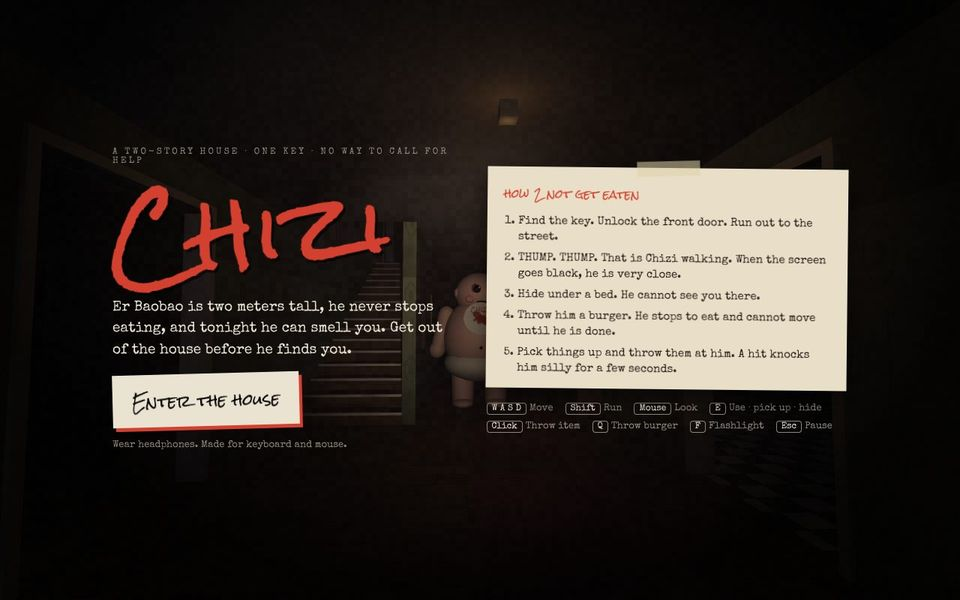
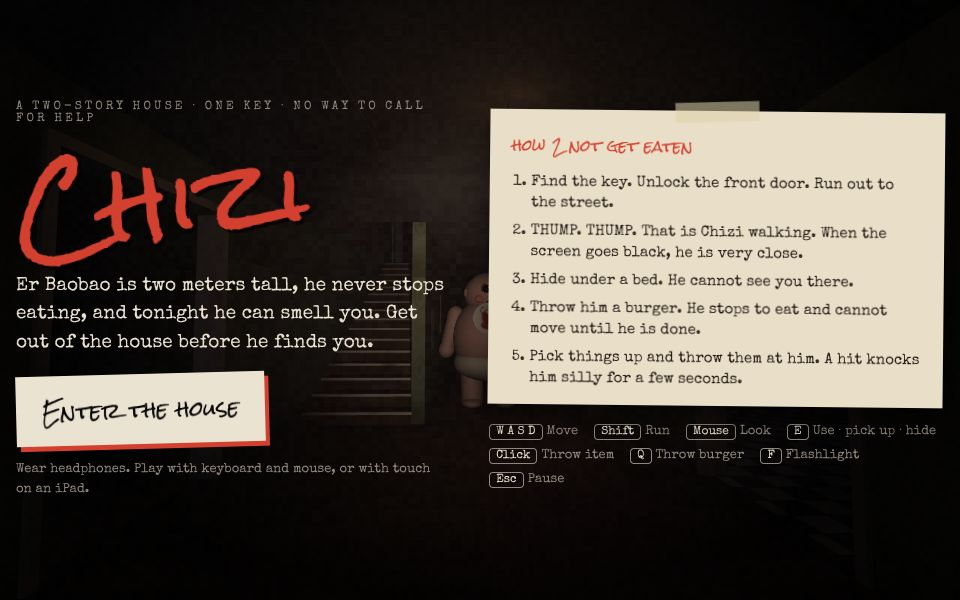
Chizi: iPad touch controls
Floating joystick on the left (push to the edge to run), drag to look on
the right, and USE / THROW / BURGER / LIGHT / PAUSE buttons. Hints and
prompts switch to touch wording, tablets render at a lighter resolution,
iOS audio plays in silent mode, and the game pauses when the tab is hidden.

Claude-Session: https://claude.ai/code/session_0114z52ABEh86bkxrtAexeXQ

diff --git a/kids/mozi/games/chizi.html b/kids/mozi/games/chizi.html
@@ -1,7 +1,8 @@
 <!doctype html>
 <html lang="en">
 <meta charset="utf-8">
-<meta name="viewport" content="width=device-width,initial-scale=1,viewport-fit=cover">
+<meta name="viewport" content="width=device-width,initial-scale=1,maximum-scale=1,viewport-fit=cover">
+<meta name="apple-mobile-web-app-capable" content="yes">
 <title>Chizi</title>
 <link rel="preconnect" href="https://fonts.googleapis.com">
 <link rel="preconnect" href="https://fonts.gstatic.com" crossorigin>
@@ -22,7 +23,7 @@
   color-scheme:dark;
 }
 [hidden]{display:none!important}
-html,body{height:100%;margin:0;background:var(--void);color:var(--bone);overflow:hidden;font-family:var(--font-type);-webkit-user-select:none;user-select:none}
+html,body{height:100%;margin:0;background:var(--void);color:var(--bone);overflow:hidden;font-family:var(--font-type);-webkit-user-select:none;user-select:none;-webkit-touch-callout:none;-webkit-tap-highlight-color:transparent;overscroll-behavior:none}
 #stage{position:fixed;inset:0;background:var(--void)}
 #stage canvas{display:block;width:100%;height:100%}
 
@@ -100,6 +101,38 @@ html,body{height:100%;margin:0;background:var(--void);color:var(--bone);overflow
 #end.lose .logo{color:var(--crayon)}
 #end.win .logo{color:var(--mustard);text-shadow:3px 4px 0 rgba(0,0,0,.6)}
 #pause .logo,#end .logo{font-size:clamp(44px,8vw,84px)}
+
+/* ---------- touch (iPad) ---------- */
+#touch{position:fixed;inset:0;display:none;touch-action:none;-webkit-touch-callout:none;-webkit-user-select:none;user-select:none}
+body.touch.playing #touch{display:block}
+#tZone{position:absolute;inset:0;touch-action:none}
+.joy{position:absolute;left:0;top:0;width:132px;height:132px;margin:-66px 0 0 -66px;border-radius:50%;border:2px solid rgba(235,227,210,.4);background:rgba(235,227,210,.06);pointer-events:none;opacity:0;transition:opacity .12s}
+.joy.on{opacity:1}
+.knob{position:absolute;left:50%;top:50%;width:58px;height:58px;margin:-29px 0 0 -29px;border-radius:50%;background:rgba(235,227,210,.5);box-shadow:0 2px 10px rgba(0,0,0,.5)}
+.joy.run{border-color:var(--crayon)}
+.joy.run .knob{background:var(--crayon)}
+.joy.run::after{content:"RUN";position:absolute;left:50%;bottom:-26px;transform:translateX(-50%);font-size:12px;letter-spacing:.2em;color:var(--crayon)}
+#tRest{position:absolute;left:calc(env(safe-area-inset-left,0px) + 44px);bottom:calc(env(safe-area-inset-bottom,0px) + 44px);width:110px;height:110px;border-radius:50%;border:2px dashed rgba(235,227,210,.22);pointer-events:none;display:grid;place-items:center;font-size:11px;letter-spacing:.18em;color:rgba(235,227,210,.4);transition:opacity .2s}
+#tRest.away,#tRest.gone{opacity:0}
+.tbtn{position:absolute;width:74px;height:74px;border-radius:50%;border:2px solid rgba(235,227,210,.5);background:rgba(12,9,8,.5);color:var(--bone);font-family:var(--font-type);font-size:12px;letter-spacing:.12em;display:grid;place-items:center;padding:0;touch-action:none;-webkit-tap-highlight-color:transparent;transition:transform .08s,opacity .2s,border-color .2s}
+.tbtn.down{transform:scale(.92);background:rgba(235,227,210,.22)}
+.tbtn.off{opacity:.35}
+#tUse{right:calc(env(safe-area-inset-right,0px) + 26px);bottom:calc(env(safe-area-inset-bottom,0px) + 118px);width:96px;height:96px;font-size:15px}
+#tUse.ready{border-color:var(--mustard);color:var(--mustard);box-shadow:0 0 22px rgba(227,185,78,.35)}
+#tThrow{right:calc(env(safe-area-inset-right,0px) + 136px);bottom:calc(env(safe-area-inset-bottom,0px) + 54px)}
+#tBurger{right:calc(env(safe-area-inset-right,0px) + 34px);bottom:calc(env(safe-area-inset-bottom,0px) + 22px);width:80px;height:80px}
+#tBurger svg{width:30px;height:30px;margin-bottom:-6px}
+#tBurger b{position:absolute;right:-4px;top:-4px;min-width:24px;height:24px;border-radius:12px;background:var(--mustard);color:var(--void);font-weight:normal;font-size:13px;display:grid;place-items:center;font-variant-numeric:tabular-nums}
+#tLight,#tPause{top:calc(env(safe-area-inset-top,0px) + 18px);width:54px;height:54px;font-size:11px}
+#tPause{right:calc(env(safe-area-inset-right,0px) + 18px);font-size:16px;letter-spacing:0}
+#tLight{right:calc(env(safe-area-inset-right,0px) + 84px)}
+body.touch #toast{top:calc(env(safe-area-inset-top,0px) + 86px)}
+body.touch #inv{bottom:auto;top:calc(env(safe-area-inset-top,0px) + 92px)}
+body.touch #subs{bottom:calc(env(safe-area-inset-bottom,0px) + 160px);width:min(620px,62vw)}
+body.touch #prompt kbd{font-size:11px;letter-spacing:.1em}
+.keys.tap{display:none}
+body.touch .keys.desk{display:none}
+body.touch .keys.tap{display:flex}
 @media (prefers-reduced-motion:reduce){#title .logo{animation:none}#fade{transition:none}}
 @media (max-width:520px){.stats{grid-template-columns:1fr}}
 </style>
@@ -130,6 +163,17 @@ html,body{height:100%;margin:0;background:var(--void);color:var(--bone);overflow
   </div>
 </div>
 
+<div id="touch" aria-hidden="true">
+  <div id="tZone"></div>
+  <div id="tRest">MOVE</div>
+  <div class="joy" id="tJoy"><div class="knob" id="tKnob"></div></div>
+  <button class="tbtn" id="tUse" type="button"><span>USE</span></button>
+  <button class="tbtn off" id="tThrow" type="button">THROW</button>
+  <button class="tbtn off" id="tBurger" type="button"><svg viewBox="0 0 40 40" aria-hidden="true"><path d="M6 19c0-8 6-13 14-13s14 5 14 13z" fill="#c9852f"/><path d="M5 20h30l-3 3H8z" fill="#5fa33a"/><rect x="5" y="22" width="30" height="5" rx="2.5" fill="#5a2f1c"/><path d="M6 27h28l-2 2H8z" fill="#f2c230"/><path d="M6 29h28c0 3-3 5-6 5H12c-3 0-6-2-6-5z" fill="#c9852f"/></svg><b id="tBurgerN">0</b></button>
+  <button class="tbtn" id="tLight" type="button">LIGHT</button>
+  <button class="tbtn" id="tPause" type="button" aria-label="Pause">II</button>
+</div>
+
 <div id="fade" class="fx"></div>
 
 <section id="title" class="screen">
@@ -139,7 +183,7 @@ html,body{height:100%;margin:0;background:var(--void);color:var(--bone);overflow
     <h1 class="logo">Chizi</h1>
     <p class="tag">Er Baobao is two meters tall, he never stops eating, and tonight he can smell you. Get out of the house before he finds you.</p>
     <button class="btn" id="startBtn" disabled>Loading…</button>
-    <p class="small" id="startNote">Wear headphones. Made for keyboard and mouse.</p>
+    <p class="small" id="startNote">Wear headphones. Play with keyboard and mouse, or with touch on an iPad.</p>
    </div>
    <div class="rules">
     <div class="note">
@@ -152,7 +196,10 @@ html,body{height:100%;margin:0;background:var(--void);color:var(--bone);overflow
         <li>Pick things up and throw them at him. A hit knocks him silly for a few seconds.</li>
       </ol>
     </div>
-    <div class="keys">
+    <div class="keys tap">
+      <span><kbd>Left thumb</kbd>Move</span><span><kbd>Push to edge</kbd>Run</span><span><kbd>Right thumb</kbd>Look</span><span><kbd>USE</kbd>Pick up · hide · open</span><span><kbd>THROW</kbd>Throw item</span><span><kbd>BURGER</kbd>Throw burger</span>
+    </div>
+    <div class="keys desk">
       <span><kbd>W A S D</kbd>Move</span><span><kbd>Shift</kbd>Run</span><span><kbd>Mouse</kbd>Look</span><span><kbd>E</kbd>Use · pick up · hide</span><span><kbd>Click</kbd>Throw item</span><span><kbd>Q</kbd>Throw burger</span><span><kbd>F</kbd>Flashlight</span><span><kbd>Esc</kbd>Pause</span>
     </div>
    </div>
@@ -197,6 +244,7 @@ const SFX = (() => {
 
   function init() {
     if (ctx) return ctx;
+    try { if (navigator.audioSession) navigator.audioSession.type = 'playback'; } catch (e) {}
     ctx = new AC();
     comp = ctx.createDynamicsCompressor();
     comp.threshold.value = -12; comp.knee.value = 10; comp.ratio.value = 5; comp.attack.value = 0.003; comp.release.value = 0.25;
@@ -1977,15 +2025,17 @@ const PLAYER = (() => {
     const tilt = (k.ArrowUp ? 1 : 0) - (k.ArrowDown ? 1 : 0); if (tilt && P.hidden) look(0, -tilt * 400 * dt);
     let moving = false;
     if (P.enabled && !P.hidden && !P.dead) {
-      const f = (k.KeyW ? 1 : 0) - (k.KeyS ? 1 : 0), s = (k.KeyD ? 1 : 0) - (k.KeyA ? 1 : 0);
+      let f = (k.KeyW ? 1 : 0) - (k.KeyS ? 1 : 0), s = (k.KeyD ? 1 : 0) - (k.KeyA ? 1 : 0), mag = 1;
+      const J = P.joy;
+      if (J && Math.hypot(J.x, J.y) > 0.12) { f = -J.y; s = J.x; mag = Math.min(1, Math.hypot(f, s)); }
       let mx = 0, mz = 0;
       if (f || s) {
         const sy = Math.sin(P.yaw), cy = Math.cos(P.yaw);
         mx = -sy * f + cy * s; mz = -cy * f - sy * s; const l = Math.hypot(mx, mz); mx /= l; mz /= l; moving = true;
       }
-      const wantRun = (k.ShiftLeft || k.ShiftRight) && moving && f > 0 && !P.exhausted;
+      const wantRun = (k.ShiftLeft || k.ShiftRight || (J && J.run)) && moving && f > 0.3 && !P.exhausted;
       P.running = wantRun && P.stamina > 0;
-      const sp = P.running ? 5.3 : (P.exhausted ? 2.3 : 3.0);
+      const sp = P.running ? 5.3 : (P.exhausted ? 2.3 : 3.0) * Math.max(0.4, mag);
       const a = Math.min(1, dt * (moving ? 10 : 12));
       P.vel.x += (mx * sp - P.vel.x) * a; P.vel.z += (mz * sp - P.vel.z) * a;
       const ox = P.pos.x, oz = P.pos.z;
@@ -2093,7 +2143,7 @@ const PLAYER = (() => {
     if (t.kind === 'burger') {
       const b = t.o; b.state = 'taken'; G.scene.remove(b.mesh); G.burgers.splice(G.burgers.indexOf(b), 1);
       P.burgers++; SFX.burgerGet(); GAME.updateHUD();
-      if (P.firstBurger) { P.firstBurger = false; GAME.say('p_burger'); GAME.toast('Press Q to throw a burger. Chizi stops to eat it.'); }
+      if (P.firstBurger) { P.firstBurger = false; GAME.say('p_burger'); GAME.toast(GAME.ctl('burger') + ' to throw a burger. Chizi stops to eat it.'); }
     } else if (t.kind === 'key') {
       G.key.taken = true; G.hasKey = true; G.scene.remove(G.key.mesh); SFX.keyGet(); GAME.say('p_key', false, true); GAME.setObjective('Unlock the front door downstairs'); GAME.updateHUD();
     } else if (t.kind === 'prop') {
@@ -2104,7 +2154,7 @@ const PLAYER = (() => {
       o.mesh.rotation.set(0.15, -0.4, 0);
       o.mesh.traverse(m => { if (m.isMesh) m.castShadow = false; });
       SFX.pickup(); GAME.updateHUD();
-      if (P.firstProp) { P.firstProp = false; GAME.say('p_pickup'); GAME.toast('Click to throw it. Hit Chizi to stun him.'); }
+      if (P.firstProp) { P.firstProp = false; GAME.say('p_pickup'); GAME.toast(GAME.ctl('throw') + ' to throw it. Hit Chizi to stun him.'); }
     } else if (t.kind === 'bed') hide(t.b);
     else if (t.kind === 'door') GAME.tryDoor();
   }
@@ -2208,6 +2258,104 @@ const PLAYER = (() => {
   return Object.assign(P, { keys, look, update, interact, throwHeld, throwBurger, physics, reset, promptText, forward });
 })();
 
+// ================= TOUCH: iPad / tablet controls =================
+// Left thumb: floating joystick (push it to the rim to run). Right thumb: drag to look.
+// Buttons: USE, THROW, BURGER, LIGHT, PAUSE.
+const TOUCH = (() => {
+  const T = { on: false, joy: null, lookId: null, lx: 0, ly: 0, lastT: 0 };
+  const R = 62, LOOK = 2.1;
+  let zone, joy, knob, rest, bUse, bThrow, bBurger, bLight, bPause, nBurger;
+
+  function coarse() {
+    try { return matchMedia('(pointer: coarse)').matches || (navigator.maxTouchPoints > 1 && !matchMedia('(hover: hover)').matches); } catch (e) { return false; }
+  }
+  function enable() {
+    if (T.on) return; T.on = true;
+    document.body.classList.add('touch');
+    GAME.onTouchMode();
+  }
+  function init() {
+    const $ = id => document.getElementById(id);
+    zone = $('tZone'); joy = $('tJoy'); knob = $('tKnob'); rest = $('tRest');
+    bUse = $('tUse'); bThrow = $('tThrow'); bBurger = $('tBurger'); bLight = $('tLight'); bPause = $('tPause'); nBurger = $('tBurgerN');
+    if (coarse()) enable();
+    // any real touch anywhere switches the touch layout on
+    window.addEventListener('pointerdown', e => { if (e.pointerType === 'touch' || e.pointerType === 'pen') { T.lastT = performance.now(); enable(); } }, true);
+    window.addEventListener('touchstart', () => { T.lastT = performance.now(); enable(); }, { capture: true, passive: true });
+    document.addEventListener('gesturestart', e => e.preventDefault());
+    document.addEventListener('dblclick', e => e.preventDefault());
+
+    zone.addEventListener('pointerdown', e => {
+      if (e.pointerType === 'mouse') return;
+      e.preventDefault(); T.lastT = performance.now();
+      if (GAME.state !== 'play') return;
+      const left = e.clientX < window.innerWidth * 0.45;
+      if (left && !T.joy && !PLAYER.hidden) {
+        T.joy = { id: e.pointerId, x0: e.clientX, y0: e.clientY, x: 0, y: 0, run: false };
+        joy.style.left = e.clientX + 'px'; joy.style.top = e.clientY + 'px';
+        joy.classList.add('on'); rest.classList.add('away'); setKnob(0, 0);
+        PLAYER.joy = T.joy;
+      } else if (!left && T.lookId == null) {
+        T.lookId = e.pointerId; T.lx = e.clientX; T.ly = e.clientY;
+      } else if (left && T.lookId == null && PLAYER.hidden) {
+        T.lookId = e.pointerId; T.lx = e.clientX; T.ly = e.clientY;
+      }
+    });
+    zone.addEventListener('pointermove', e => {
+      if (T.joy && e.pointerId === T.joy.id) {
+        e.preventDefault();
+        let dx = e.clientX - T.joy.x0, dy = e.clientY - T.joy.y0; const len = Math.hypot(dx, dy);
+        if (len > R) { dx = dx / len * R; dy = dy / len * R; }
+        T.joy.x = dx / R; T.joy.y = dy / R;
+        T.joy.run = len > R * 0.92 && dy < -R * 0.45;
+        joy.classList.toggle('run', T.joy.run);
+        setKnob(dx, dy);
+      } else if (e.pointerId === T.lookId) {
+        e.preventDefault();
+        PLAYER.look((e.clientX - T.lx) * LOOK, (e.clientY - T.ly) * LOOK);
+        T.lx = e.clientX; T.ly = e.clientY;
+      }
+    });
+    const end = e => {
+      if (T.joy && e.pointerId === T.joy.id) { T.joy = null; PLAYER.joy = null; joy.classList.remove('on', 'run'); rest.classList.remove('away'); }
+      if (e.pointerId === T.lookId) T.lookId = null;
+    };
+    zone.addEventListener('pointerup', end); zone.addEventListener('pointercancel', end); zone.addEventListener('lostpointercapture', end);
+
+    const btn = (el, fn) => {
+      el.addEventListener('pointerdown', e => { e.preventDefault(); e.stopPropagation(); T.lastT = performance.now(); el.classList.add('down'); if (GAME.state === 'play') fn(); });
+      ['pointerup', 'pointercancel', 'pointerleave'].forEach(t => el.addEventListener(t, () => el.classList.remove('down')));
+      el.addEventListener('click', e => e.preventDefault());
+    };
+    btn(bUse, () => PLAYER.interact(GAME.camera));
+    btn(bThrow, () => PLAYER.throwHeld(GAME.camera));
+    btn(bBurger, () => PLAYER.throwBurger(GAME.camera));
+    btn(bLight, () => GAME.toggleFlash());
+    btn(bPause, () => GAME.pause());
+  }
+  function setKnob(dx, dy) { knob.style.transform = 'translate(' + dx + 'px,' + dy + 'px)'; }
+  function reset() {
+    T.joy = null; T.lookId = null; PLAYER.joy = null;
+    if (joy) { joy.classList.remove('on', 'run'); rest.classList.remove('away'); }
+  }
+  let cache = '';
+  function update() {
+    if (!T.on) return;
+    if (PLAYER.hidden && T.joy) reset();
+    const s = (PLAYER.target || PLAYER.hidden ? 1 : 0) + '|' + (PLAYER.held ? 1 : 0) + '|' + PLAYER.burgers + '|' + (PLAYER.flashOn ? 1 : 0) + '|' + (PLAYER.hidden ? 1 : 0);
+    if (s === cache) return; cache = s;
+    bUse.classList.toggle('ready', !!PLAYER.target || PLAYER.hidden);
+    bUse.querySelector('span').textContent = PLAYER.hidden ? 'OUT' : 'USE';
+    bThrow.classList.toggle('off', !PLAYER.held);
+    bBurger.classList.toggle('off', PLAYER.burgers <= 0); nBurger.textContent = PLAYER.burgers;
+    bLight.classList.toggle('off', !PLAYER.flashOn);
+    rest.classList.toggle('gone', PLAYER.hidden);
+  }
+  // recent touch? (used to ignore the mouse events browsers synthesize after a tap)
+  function recent() { return performance.now() - T.lastT < 900; }
+  return { T, init, enable, update, reset, recent, coarse, get on() { return T.on; } };
+})();
+
 // ================= GAME: boot, loop, HUD, voices, events, win/lose =================
 const GAME = (() => {
   const $ = id => document.getElementById(id);
@@ -2215,7 +2363,7 @@ const GAME = (() => {
   let renderer, scene, camera, flash, glowLight, state = 'title', last = 0, pvUntil = 0, queue = [], chiziVoice = null, subUntil = 0;
   let shake = 0, hbT = 0, grainT = 0, tvT = 0, tickT = 0, creakT = 10, caughtT = 0, wonT = 0, introT = 0, heardOnce = false, spottedT = -99, lostCheck = null, eatSayT = -99;
   const quality = { pr: 1, acc: 0, n: 0, checks: 0 };
-  let lockAt = 0, lockMode = 'lock', rmb = false, toastT = 0, frame = 0, darkS = 0;
+  let lastState = '', lockAt = 0, lockMode = 'lock', rmb = false, toastT = 0, frame = 0, darkS = 0;
   const camQ = new THREE.Quaternion(), mtx = new THREE.Matrix4(), UP = new THREE.Vector3(0, 1, 0);
 
   // ---------- boot ----------
@@ -2223,10 +2371,11 @@ const GAME = (() => {
     const startBtn = $('startBtn');
     try { await Promise.race([document.fonts.load('26px "Rock Salt"'), new Promise(r => setTimeout(r, 2500))]); } catch (e) {}
     renderer = new THREE.WebGLRenderer({ antialias: true, powerPreference: 'high-performance' });
-    quality.pr = location.hash === '#lowq' ? 0.4 : Math.min(window.devicePixelRatio || 1, 1.5);
+    const tablet = TOUCH.coarse();
+    quality.pr = location.hash === '#lowq' ? 0.4 : Math.min(window.devicePixelRatio || 1, tablet ? 1.0 : 1.5);
     renderer.setPixelRatio(quality.pr);
     renderer.setSize(window.innerWidth, window.innerHeight);
-    renderer.shadowMap.enabled = true; renderer.shadowMap.type = THREE.PCFSoftShadowMap;
+    renderer.shadowMap.enabled = true; renderer.shadowMap.type = tablet ? THREE.PCFShadowMap : THREE.PCFSoftShadowMap;
     $('stage').appendChild(renderer.domElement);
     scene = new THREE.Scene(); G.scene = scene;
     scene.background = new THREE.Color(0x020204); scene.fog = new THREE.FogExp2(0x040407, 0.068);
@@ -2252,6 +2401,7 @@ const GAME = (() => {
     $('againBtn').addEventListener('click', () => { SFX.resume(); SFX.uiClick(); begin(true); });
     $('resumeBtn').addEventListener('click', () => { resume(); });
     bindInput();
+    TOUCH.init();
     window.addEventListener('resize', () => { camera.aspect = window.innerWidth / window.innerHeight; camera.updateProjectionMatrix(); renderer.setSize(window.innerWidth, window.innerHeight); });
     $('fade').style.opacity = 0;
     requestAnimationFrame(loop);
@@ -2264,7 +2414,7 @@ const GAME = (() => {
   // ---------- input ----------
   function canvasEl() { return renderer.domElement; }
   function requestLock() {
-    if (lockMode !== 'lock') return;
+    if (lockMode !== 'lock' || TOUCH.on || !canvasEl().requestPointerLock) return;
     try { const r = canvasEl().requestPointerLock(); if (r && r.catch) r.catch(() => fallbackLook()); } catch (e) { fallbackLook(); }
   }
   function fallbackLook() {
@@ -2282,15 +2432,15 @@ const GAME = (() => {
       if (e.code === 'KeyE') PLAYER.interact(camera);
       else if (e.code === 'KeyQ') PLAYER.throwBurger(camera);
       else if (e.code === 'KeyR') PLAYER.throwHeld(camera);
-      else if (e.code === 'KeyF') { PLAYER.flashOn = !PLAYER.flashOn; SFX.uiClick(); }
+      else if (e.code === 'KeyF') toggleFlash();
       else if (e.code === 'KeyP' || (e.code === 'Escape' && lockMode === 'drag')) pause();
     });
     document.addEventListener('keyup', e => { PLAYER.keys[e.code] = false; });
     window.addEventListener('blur', () => { for (const k in PLAYER.keys) PLAYER.keys[k] = false; });
     canvasEl().addEventListener('contextmenu', e => e.preventDefault());
     document.addEventListener('mousedown', e => {
-      if (state !== 'play') return;
-      if (e.target.closest && e.target.closest('button')) return;
+      if (state !== 'play' || TOUCH.recent()) return;
+      if (e.target.closest && e.target.closest('button, .tbtn')) return;
       if (e.button === 2) { rmb = true; return; }
       if (e.button === 0) { if (lockMode === 'lock' && !locked()) { requestLock(); return; } PLAYER.throwHeld(camera); }
     });
@@ -2303,6 +2453,7 @@ const GAME = (() => {
     });
     document.addEventListener('pointerlockchange', () => { if (locked()) lockAt = performance.now(); if (!locked() && state === 'play' && lockMode === 'lock') pause(); });
     document.addEventListener('pointerlockerror', () => fallbackLook());
+    document.addEventListener('visibilitychange', () => { if (document.hidden && state === 'play') pause(); });
   }
 
   // ---------- flow ----------
@@ -2317,7 +2468,9 @@ const GAME = (() => {
     $('fade').style.opacity = 1; setTimeout(() => { $('fade').style.opacity = 0; }, 120);
     SFX.stopAll(); setTimeout(() => { SFX.startAmbience(); SFX.startChaseLayer(); }, 60);
     requestLock();
-    if (!again) { say('n_intro', false, true); setTimeout(() => { if (state === 'play') toast('WASD to move · Shift to run · E to use · F flashlight', 7); }, 1500); }
+    TOUCH.reset();
+    if (TOUCH.on) goFullscreen();
+    if (!again) { say('n_intro', false, true); setTimeout(() => { if (state === 'play') toast(TOUCH.on ? 'Left thumb moves (push to the edge to run). Right thumb looks around.' : 'WASD to move · Shift to run · E to use · F flashlight', 7); }, 1500); }
     PLAYER.enabled = true;
   }
   function resetWorld() {
@@ -2378,7 +2531,7 @@ const GAME = (() => {
     const P = PLAYER;
     $('burgerN').textContent = P.burgers;
     $('keySlot').classList.toggle('got', G.hasKey);
-    $('held').innerHTML = P.held ? 'Holding <b>' + P.held.name.toLowerCase() + '</b> · click to throw' : '';
+    $('held').innerHTML = P.held ? 'Holding <b>' + P.held.name.toLowerCase() + '</b> · ' + (TOUCH.on ? 'tap THROW' : 'click to throw') : '';
   }
 
   // ---------- events from Chizi / player ----------
@@ -2417,6 +2570,7 @@ const GAME = (() => {
     if (G.freeze) { last = now; return; }
     const dt = Math.min(0.05, (now - (last || now)) / 1000); last = now; frame++;
     const tA = performance.now();
+    if (state !== lastState) { document.body.classList.toggle('playing', state === 'play'); lastState = state; }
     if (state === 'play') stepPlay(dt);
     else if (state === 'caught') stepCaught(dt);
     else if (state === 'won') stepWon(dt);
@@ -2476,9 +2630,10 @@ const GAME = (() => {
     SFX.setListener(camera.position, f, UP);
     // HUD
     const pr = P.promptText();
-    const html = pr ? '<kbd>' + pr[0] + '</kbd>' + pr[1] : '';
+    const html = pr ? '<kbd>' + (TOUCH.on ? 'USE' : pr[0]) + '</kbd>' + pr[1] : '';
     if (html !== hudCache) { $('prompt').innerHTML = html; hudCache = html; }
     $('cross').classList.toggle('target', !!P.target);
+    TOUCH.update();
     const sw = $('staminaWrap'); sw.classList.toggle('show', P.stamina < 99.5); sw.classList.toggle('tired', P.exhausted);
     $('stamina').style.transform = 'scaleX(' + (P.stamina / 100).toFixed(3) + ')';
     // win
@@ -2520,6 +2675,22 @@ const GAME = (() => {
     if (wonT > 8.2) { showEnd(true); $('fade').style.opacity = 0; SFX.stopAll(); }
   }
 
+  // ---------- touch / tablet helpers ----------
+  function ctl(kind) {
+    const t = TOUCH.on;
+    return { burger: t ? 'Tap BURGER' : 'Press Q', throw: t ? 'Tap THROW' : 'Click', use: t ? 'Tap USE' : 'Press E' }[kind] || '';
+  }
+  function toggleFlash() { PLAYER.flashOn = !PLAYER.flashOn; SFX.uiClick(); }
+  function onTouchMode() {
+    lockMode = 'touch';
+    if (renderer && quality.pr > 1.0 && location.hash !== '#lowq') { quality.pr = 1.0; renderer.setPixelRatio(1.0); renderer.setSize(window.innerWidth, window.innerHeight); }
+    $('lookNote').textContent = '';
+  }
+  function goFullscreen() {
+    const el = document.documentElement;
+    try { const f = el.requestFullscreen || el.webkitRequestFullscreen; if (f && !document.fullscreenElement && !document.webkitFullscreenElement) { const r = f.call(el); if (r && r.catch) r.catch(() => {}); } } catch (e) {}
+  }
+
   // ---------- adaptive resolution: drop pixel ratio if frames are slow ----------
   function adaptQuality(dt) {
     if (state !== 'play' || quality.checks > 6) return;
@@ -2538,7 +2709,7 @@ const GAME = (() => {
     gctx.putImageData(gimg, 0, 0);
   }
 
-  return { boot, say, toast, setObjective, updateHUD, muffleFor, onSpotted, onLost, onSurge, onStomp, onEat, onHide, onHitChizi, tryDoor, caught, get state() { return state; }, get camera() { return camera; }, _debug: { begin, win, get renderer() { return renderer; }, sim(sec, render) { const n = Math.round(sec * 30); for (let i = 0; i < n; i++) { if (state === 'play') stepPlay(1 / 30); else if (state === 'caught') stepCaught(1 / 30); else if (state === 'won') stepWon(1 / 30); } if (render) renderer.render(scene, camera); return state; } } };
+  return { boot, ctl, toggleFlash, onTouchMode, pause, say, toast, setObjective, updateHUD, muffleFor, onSpotted, onLost, onSurge, onStomp, onEat, onHide, onHitChizi, tryDoor, caught, get state() { return state; }, get camera() { return camera; }, _debug: { begin, win, get renderer() { return renderer; }, sim(sec, render) { const n = Math.round(sec * 30); for (let i = 0; i < n; i++) { if (state === 'play') stepPlay(1 / 30); else if (state === 'caught') stepCaught(1 / 30); else if (state === 'won') stepWon(1 / 30); } if (render) renderer.render(scene, camera); return state; } } };
 })();
 window.addEventListener('load', () => { GAME.boot().catch(e => { console.error(e); const b = document.getElementById('startBtn'); b.textContent = 'Could not start: ' + e.message; }); });
 
